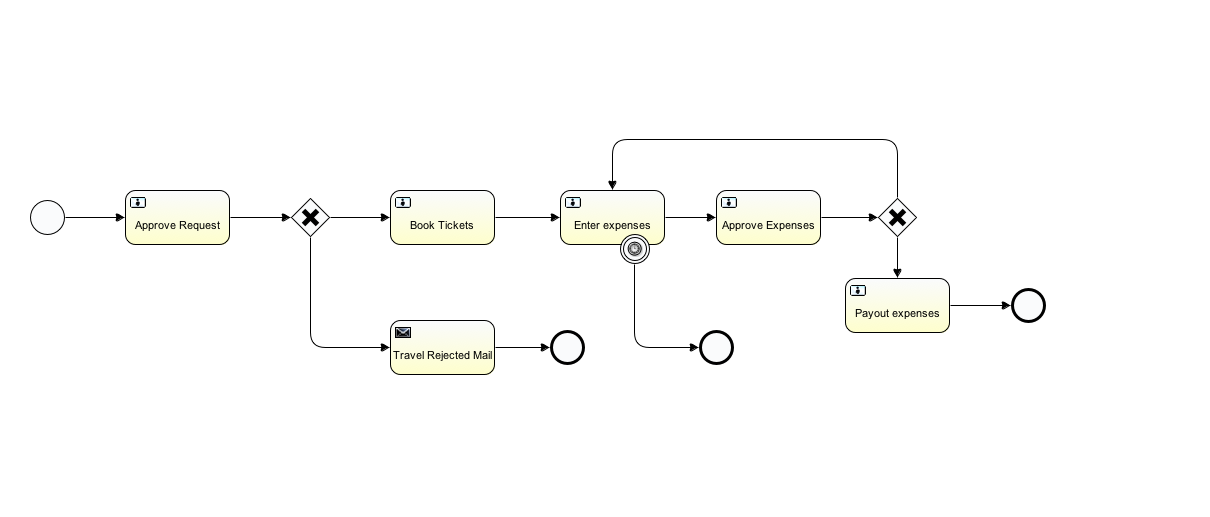
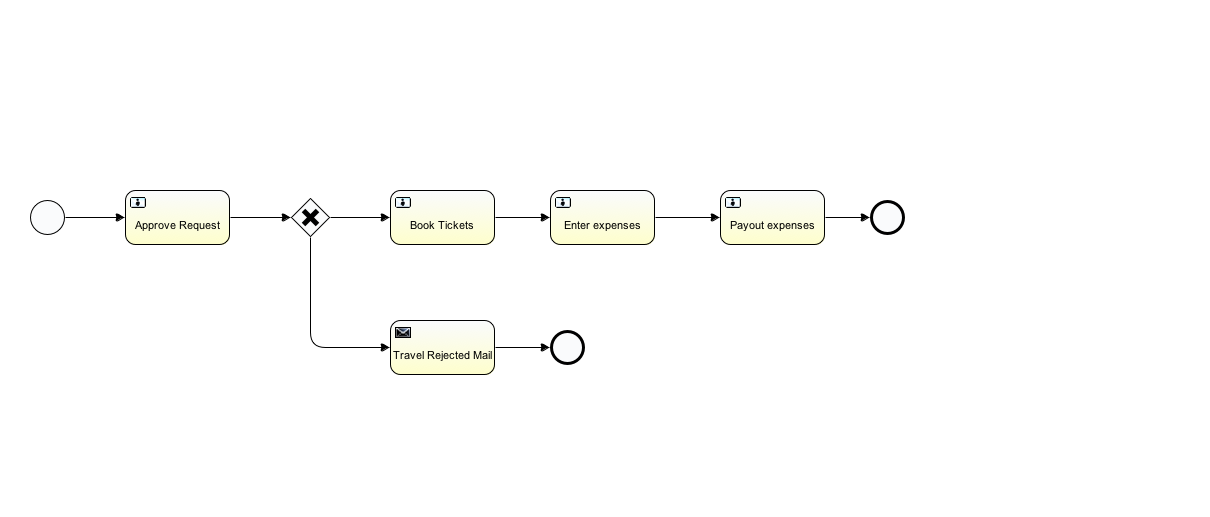
Created version to start with

diff --git a/simple-travel/app/src/main/java/org/vaadin/activiti/simpletravel/service/impl/TravelInvoiceServiceImpl.java b/simple-travel/app/src/main/java/org/vaadin/activiti/simpletravel/service/impl/TravelInvoiceServiceImpl.java
@@ -1,16 +1,11 @@
 package org.vaadin.activiti.simpletravel.service.impl;
 
-import java.util.Date;
-import java.util.HashMap;
-import org.activiti.engine.impl.identity.Authentication;
 import org.activiti.engine.runtime.ProcessInstance;
 import org.activiti.engine.task.Task;
 import org.springframework.beans.factory.annotation.Autowired;
 import org.springframework.stereotype.Service;
 import org.springframework.transaction.annotation.Transactional;
-import org.vaadin.activiti.simpletravel.domain.Decision;
 import org.vaadin.activiti.simpletravel.domain.TravelInvoice;
-import org.vaadin.activiti.simpletravel.domain.TravelInvoiceDecision;
 import org.vaadin.activiti.simpletravel.domain.TravelRequest;
 import org.vaadin.activiti.simpletravel.domain.repositories.TravelInvoiceRepository;
 import org.vaadin.activiti.simpletravel.domain.validation.ValidationUtil;
@@ -82,36 +77,6 @@ public class TravelInvoiceServiceImpl extends AbstractServiceImpl implements Tra
 
     private Task getPayExpencesTask(ProcessInstance processInstance) {
         return findTaskByDefinitionKey(processInstance, "payout");
-    }    
-    
-    @Override
-    @Transactional
-    @RequireGroup(Groups.GROUP_MANAGERS)
-    public void approveTravelInvoice(TravelInvoice invoice, String motivation) {
-        final TravelInvoiceDecision decision = new TravelInvoiceDecision(Decision.APPROVED, motivation, Authentication.getAuthenticatedUserId(), new Date());
-        setDecisionAndSave(invoice, decision);
-    }
-
-    @Override
-    @Transactional
-    @RequireGroup(Groups.GROUP_MANAGERS)
-    public void rejectTravelInvoice(TravelInvoice invoice, String motivation) {
-        final TravelInvoiceDecision decision = new TravelInvoiceDecision(Decision.DENIED, motivation, Authentication.getAuthenticatedUserId(), new Date());
-        setDecisionAndSave(invoice, decision);
-    }
-    
-    private void setDecisionAndSave(TravelInvoice invoice, TravelInvoiceDecision decision) {
-        invoice.setDecision(decision);
-        ValidationUtil.validateAndThrow(validator, decision);
-        repository.save(invoice);
-        final ProcessInstance processInstance = getProcessInstanceForInvoice(invoice);
-        final Task expensesApprovalTask = getExpensesApprovalTask(processInstance);
-        final HashMap<String, Object> processVariables = new HashMap<String, Object>();
-        taskService.complete(expensesApprovalTask.getId(), processVariables);
-    }    
-    
-    private Task getExpensesApprovalTask(ProcessInstance processInstance) {
-        return findTaskByDefinitionKey(processInstance, "approveExpenses");
     }    
     
 }

diff --git a/simple-travel/app/src/main/java/org/vaadin/activiti/simpletravel/service/TravelInvoiceService.java b/simple-travel/app/src/main/java/org/vaadin/activiti/simpletravel/service/TravelInvoiceService.java
@@ -11,9 +11,5 @@ public interface TravelInvoiceService {
     
     TravelInvoice findTravelInvoiceByProcessInstanceId(String processInstanceId);
 
-    void approveTravelInvoice(TravelInvoice invoice, String motivation);
-
-    void rejectTravelInvoice(TravelInvoice invoice, String motivation);
-    
     void payExpences(TravelInvoice invoice);    
 }
